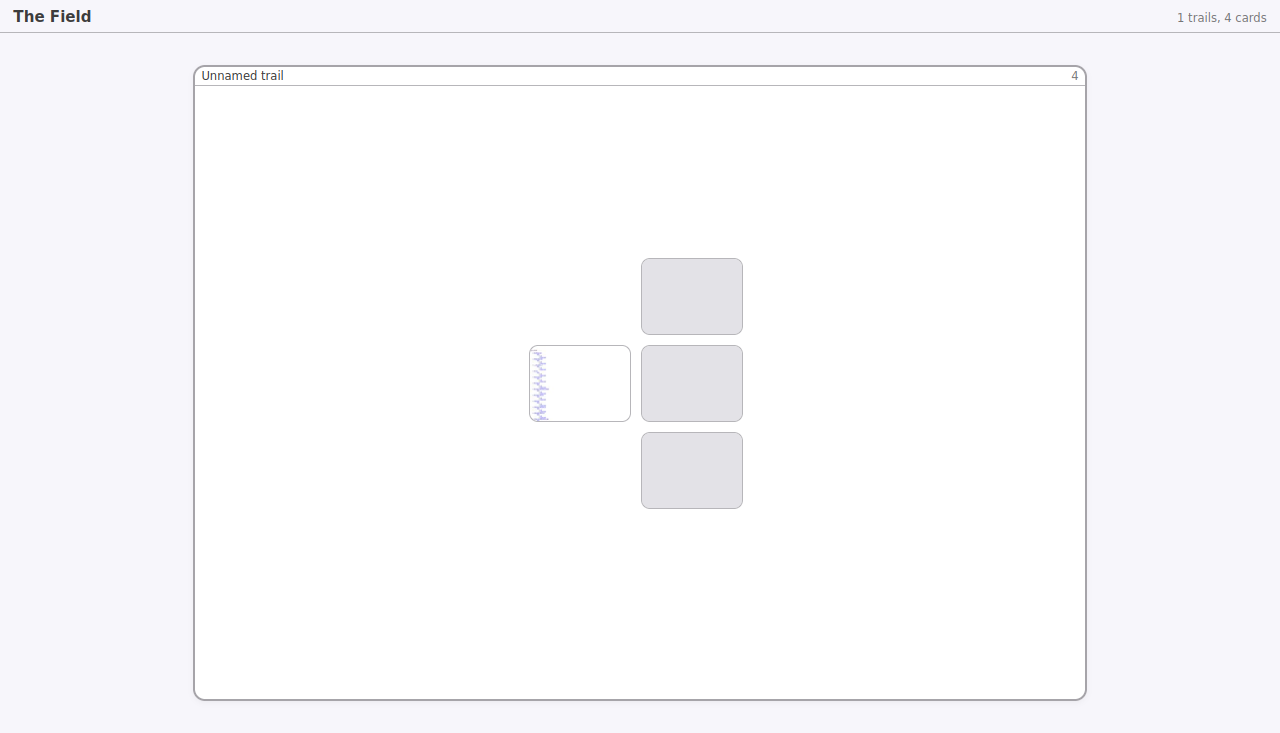
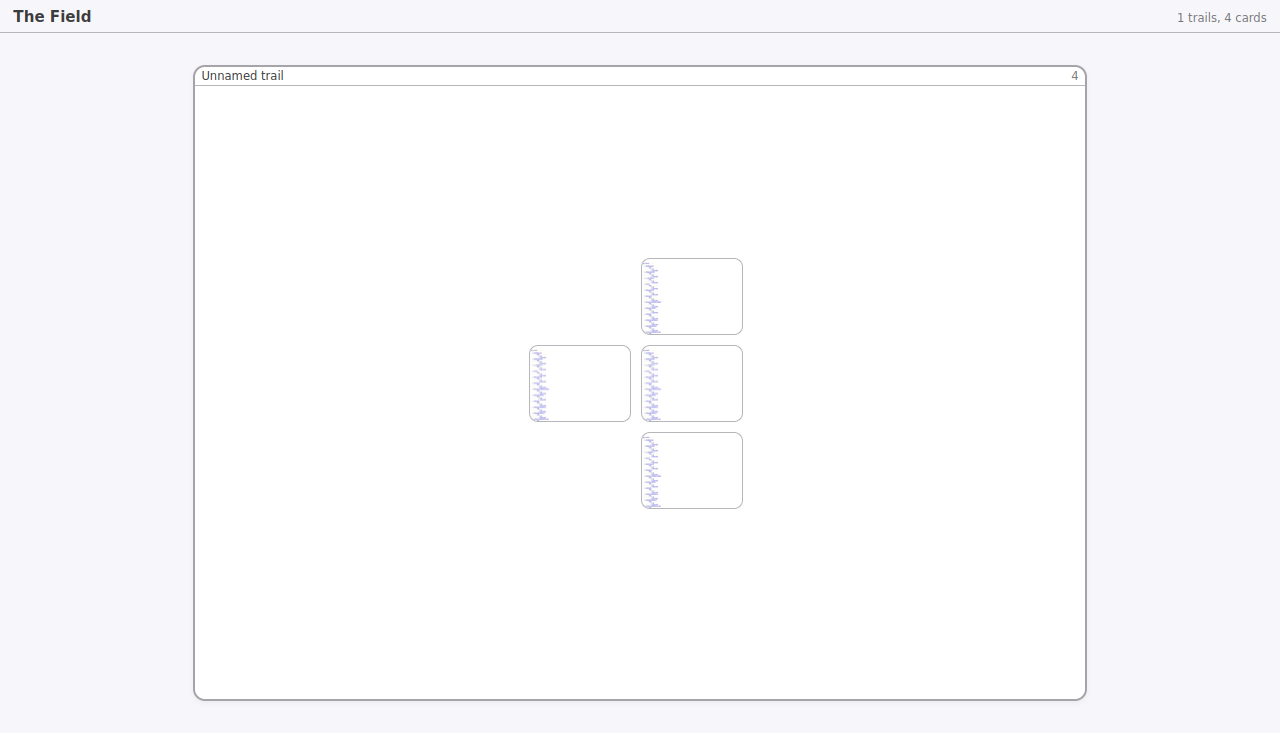
Give every card in the Field a picture of its own page
Three of the four cards in the Field's own screenshot were grey rectangles.
A card without a thumbnail is a list row with extra steps, which is the
condition Data Mountain measured as its weakest, so this is the flagship
surface failing at the thing it exists to do.

Two separate holes, both on the path this browser is designed to be used
on — branch, go back, branch again.

The pages branched *to* were never photographed because re-entry is a
departure the progress listener cannot announce: the load `enter` starts
belongs to the node being arrived at, so the restore flag suppresses it.
`enter` now announces it itself, before anything has started to move, and
awaits the listener — the one departure in the tree that is not a race.

The page branched *from* was never photographed either, and for the
opposite reason: `enter` returns before the restore commits, so the
navigation that follows is still suppressed by the same flag, while its
delayed settle capture had already been discarded as stale. A node with no
picture at all now takes one the moment it settles, half-drawn and all, and
waits for the better one only if it already has something to show.

Also drop a snapshot whose document changed underneath it. `drawSnapshot`
awaits twice and then paints whatever is in front of it, reporting success
either way, so a departure capture that loses its race filed a picture of
the next page over the top of a correct one. There is no error to catch;
[…]

Changed region(s): [[0.5, 0.3302, 0.5938, 0.6903]]

diff --git a/browser/components/fos/tests/browser/browser_field.js b/browser/components/fos/tests/browser/browser_field.js
@@ -882,3 +882,131 @@ add_task(async function the_field_says_which_card_arrived() {
     BrowserTestUtils.removeTab(tab);
   }
 });
+
+/**
+ * Re-entry is a departure, and it is the departure this browser is built for.
+ *
+ * The progress listener cannot announce it: the load `enter` starts belongs to
+ * the node being arrived at, so `#restoring` suppresses the departure there —
+ * correctly, or the outgoing page's state would be written over the state
+ * being replayed. That left the one way of leaving a page that this design
+ * encourages above all others taking no picture of it. Branch, go back, branch
+ * again, and every page you branched *from* stayed a grey rectangle while the
+ * page you never left kept its snapshot. It is in
+ * `agent/reports/demo-3-field-region.png`: three children of one search, all
+ * grey, and the search itself not.
+ *
+ * `enter` is also the only departure that is not a race — nothing has started
+ * to move, so the outgoing document is still live and still painted — which is
+ * why the listener's promise is awaited here and nowhere else. Both halves are
+ * asserted, because a notification that fires after the restore has begun is
+ * worth no more than the one that never fired.
+ */
+add_task(async function test_re_entry_captures_the_page_it_leaves() {
+  await goTo(PAGE_A);
+  const parent = session().currentNodeId;
+  await goTo(PAGE_B);
+  const leaving = session().currentNodeId;
+
+  const departures = [];
+  let listenerFinished = false;
+  const off = session().onDeparture(async (nodeId, browser) => {
+    // Read inside the listener, not after: the claim is about what was in
+    // front of the browser at the moment it was told, and by the time `enter`
+    // returns the answer has changed either way.
+    departures.push({ nodeId, url: browser.currentURI?.spec });
+    await new Promise(resolve => window.setTimeout(resolve, 0));
+    listenerFinished = true;
+  });
+
+  try {
+    await session().enter(parent);
+  } finally {
+    off();
+  }
+
+  Assert.deepEqual(
+    departures.map(d => d.nodeId),
+    [leaving],
+    "re-entry announced the page it left, once"
+  );
+  Assert.equal(
+    departures[0].url,
+    PAGE_B,
+    "while its browser was still showing it"
+  );
+  Assert.ok(
+    listenerFinished,
+    "and `enter` waited for the capture before replaying the arrival"
+  );
+});
+
+/**
+ * A snapshot is only worth filing if it is of the document it was asked for.
+ *
+ * `captureTabPreviewThumbnail` awaits twice before any pixels exist, so a
+ * capture fired from the ordinary navigation departure can have its document
+ * swapped underneath it — and `drawSnapshot` then paints whatever is in front
+ * of it and reports success. There is no error to catch: the failure is a
+ * picture of the next page, filed against this node, over the top of a correct
+ * one. Only the document's identity can tell the two apart.
+ *
+ * The stub below is that race made deterministic: it wins its await and loses
+ * its document, which is the exact shape the guard exists for.
+ */
+add_task(async function test_a_snapshot_of_the_wrong_document_is_discarded() {
+  await goTo(PAGE_C);
+  const nodeId = session().currentNodeId;
+  const browser = gBrowser.selectedBrowser;
+  const shotFor = id =>
+    window.document.querySelector(
+      `.fos-field-card[data-node-id="${id}"] .fos-field-shot`
+    );
+
+  // Armed once. The navigation this stub starts is itself a departure, which
+  // asks for another capture, which would start it again — the Field's own
+  // machinery turns a re-entrant stub into a browser that never finishes
+  // leaving the page.
+  const real = PageThumbs.captureTabPreviewThumbnail;
+  let armed = true;
+  PageThumbs.captureTabPreviewThumbnail = async () => {
+    if (!armed) {
+      return false;
+    }
+    armed = false;
+    BrowserTestUtils.startLoadingURIString(browser, PAGE_A);
+    await BrowserTestUtils.browserLoaded(browser, false, PAGE_A);
+    return true;
+  };
+
+  let swapped;
+  try {
+    // Opening the Field captures every tab for the node it is showing, which
+    // is this node, through the stub above.
+    field().open();
+    field().showRegion(session().store.getNode(nodeId).trail_id);
+
+    // The precondition, asserted rather than assumed: the card starts with
+    // nothing, so anything it has afterwards came from the capture under test
+    // and not from a snapshot it already had.
+    Assert.ok(
+      !shotFor(nodeId)?.style.backgroundImage,
+      "the card has no snapshot before the capture resolves"
+    );
+
+    swapped = await TestUtils.waitForCondition(
+      () => browser.currentURI?.spec === PAGE_A && browser,
+      "the stub moved the browser to another document"
+    );
+  } finally {
+    PageThumbs.captureTabPreviewThumbnail = real;
+  }
+
+  Assert.ok(swapped, "the race the guard exists for actually happened");
+  Assert.ok(
+    !shotFor(nodeId)?.style.backgroundImage,
+    "and the picture of the wrong document was dropped rather than filed"
+  );
+
+  field().close();
+});

diff --git a/browser/components/fos/tests/browser/browser_zdemoflow.js b/browser/components/fos/tests/browser/browser_zdemoflow.js
@@ -396,6 +396,31 @@ add_task(async function test_the_demo_flow() {
     );
   }
 
+  // Every card carries a picture, and the branch point most of all.
+  //
+  // This is the one place in the suite where the condition arises, which is
+  // why the assertion is here rather than beside the Field's other thumbnail
+  // tests: branching re-enters the page being branched from, `enter` returns
+  // before the restore commits, and the navigation that follows is therefore
+  // still suppressed by the restore flag. So the branch point is never
+  // departed at all, and its delayed settle capture was discarded as stale the
+  // moment the first branch was taken. It used to render as a grey rectangle
+  // ringed by three branches that all had pictures — dead centre of the
+  // Field's own screenshot, and the one card the eye goes to.
+  //
+  // `data:` and not `moz-page-thumb:`: the disk store's copy would satisfy a
+  // laxer check without the node ever having been photographed.
+  for (const node of [searchNode, ...branches]) {
+    const card = model.cardForNode(node.id);
+    const shot = win.document.querySelector(
+      `.fos-field-card[data-card-id="${card.id}"] .fos-field-shot`
+    );
+    Assert.ok(
+      shot?.style.backgroundImage.startsWith('url("data:'),
+      `${node.url} is a card with a picture on it, not a list row`
+    );
+  }
+
   await shoot("demo-3-field-region");
 
   EventUtils.synthesizeKey("KEY_Escape", {}, win);

diff --git a/agent/reports/demo-pack.md b/agent/reports/demo-pack.md
@@ -1,6 +1,6 @@
 # Context pack — memex research
 
-Research context **memex research**: 1 question asked, 4 pages opened. Exported 2026-08-18.
+Research context **memex research**: 1 question asked, 4 pages opened. Exported 2026-08-19.
 
 ## Questions asked
 
